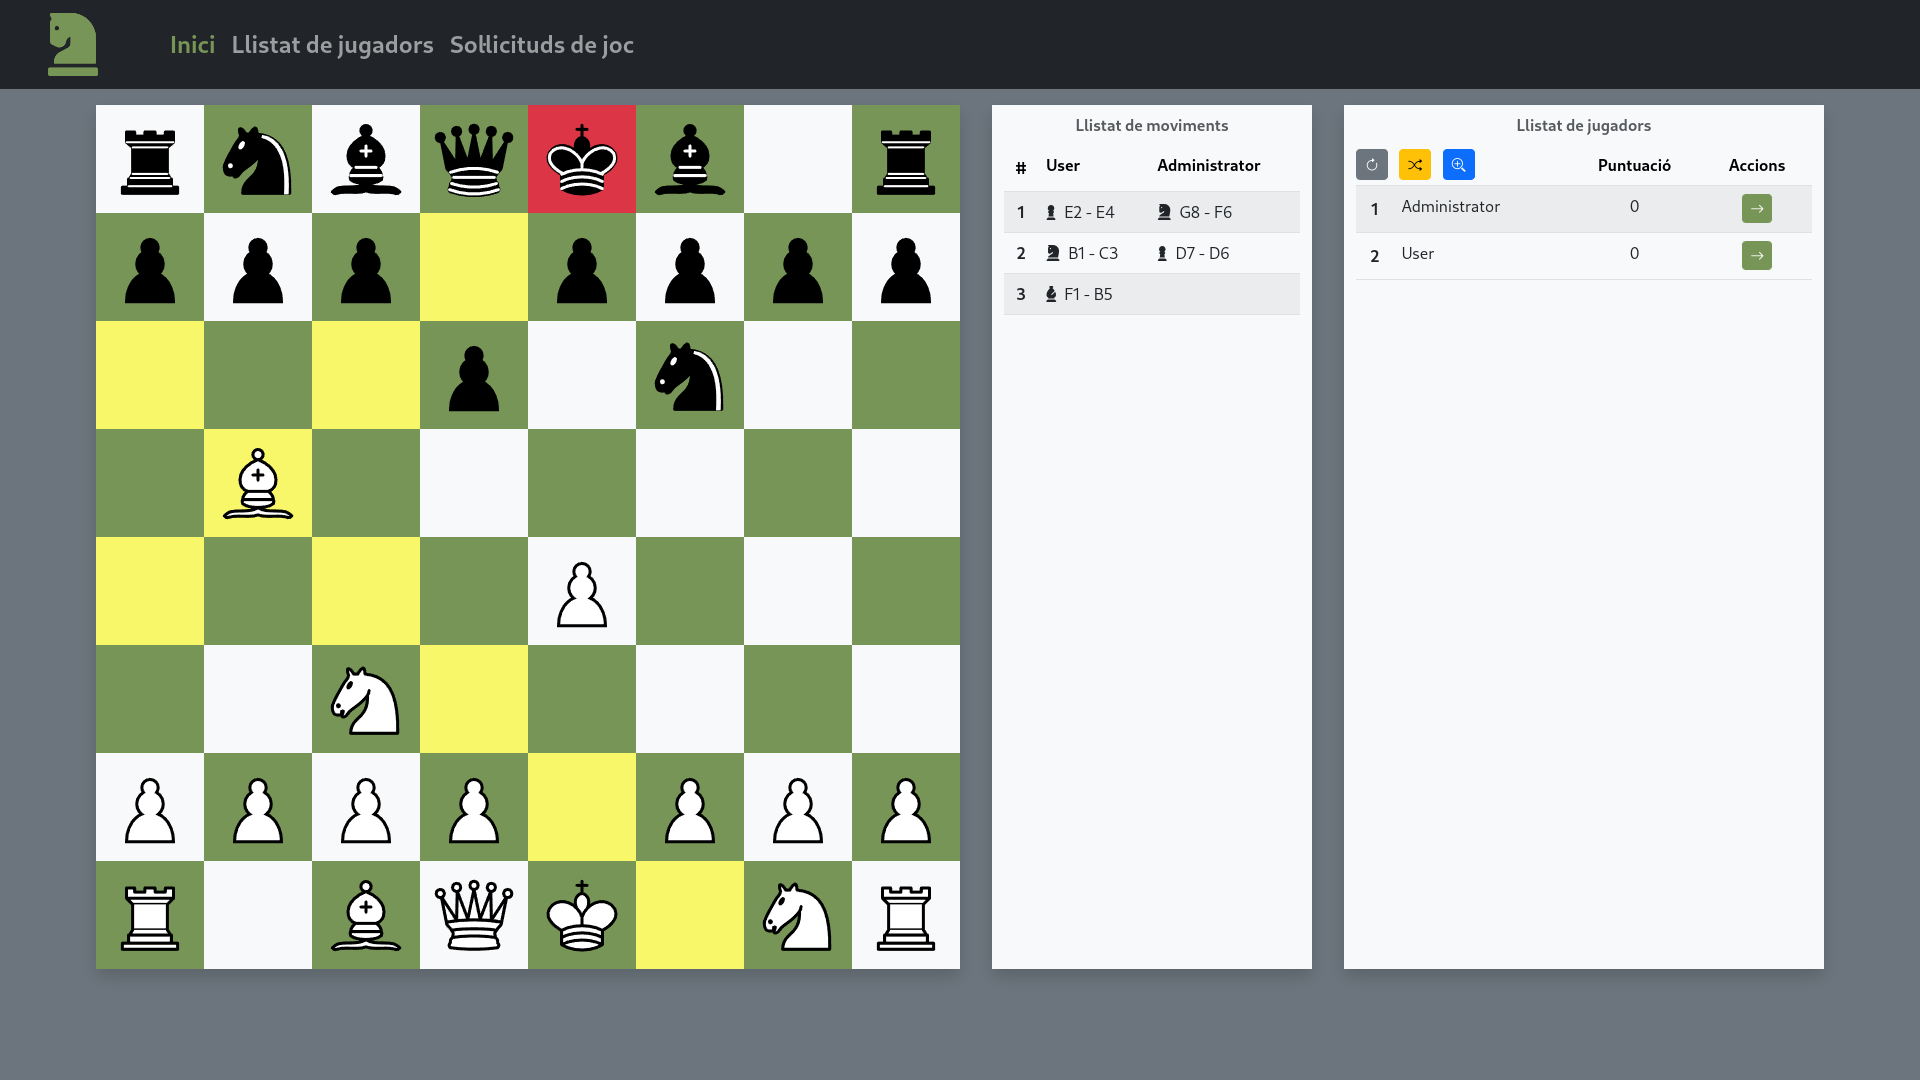
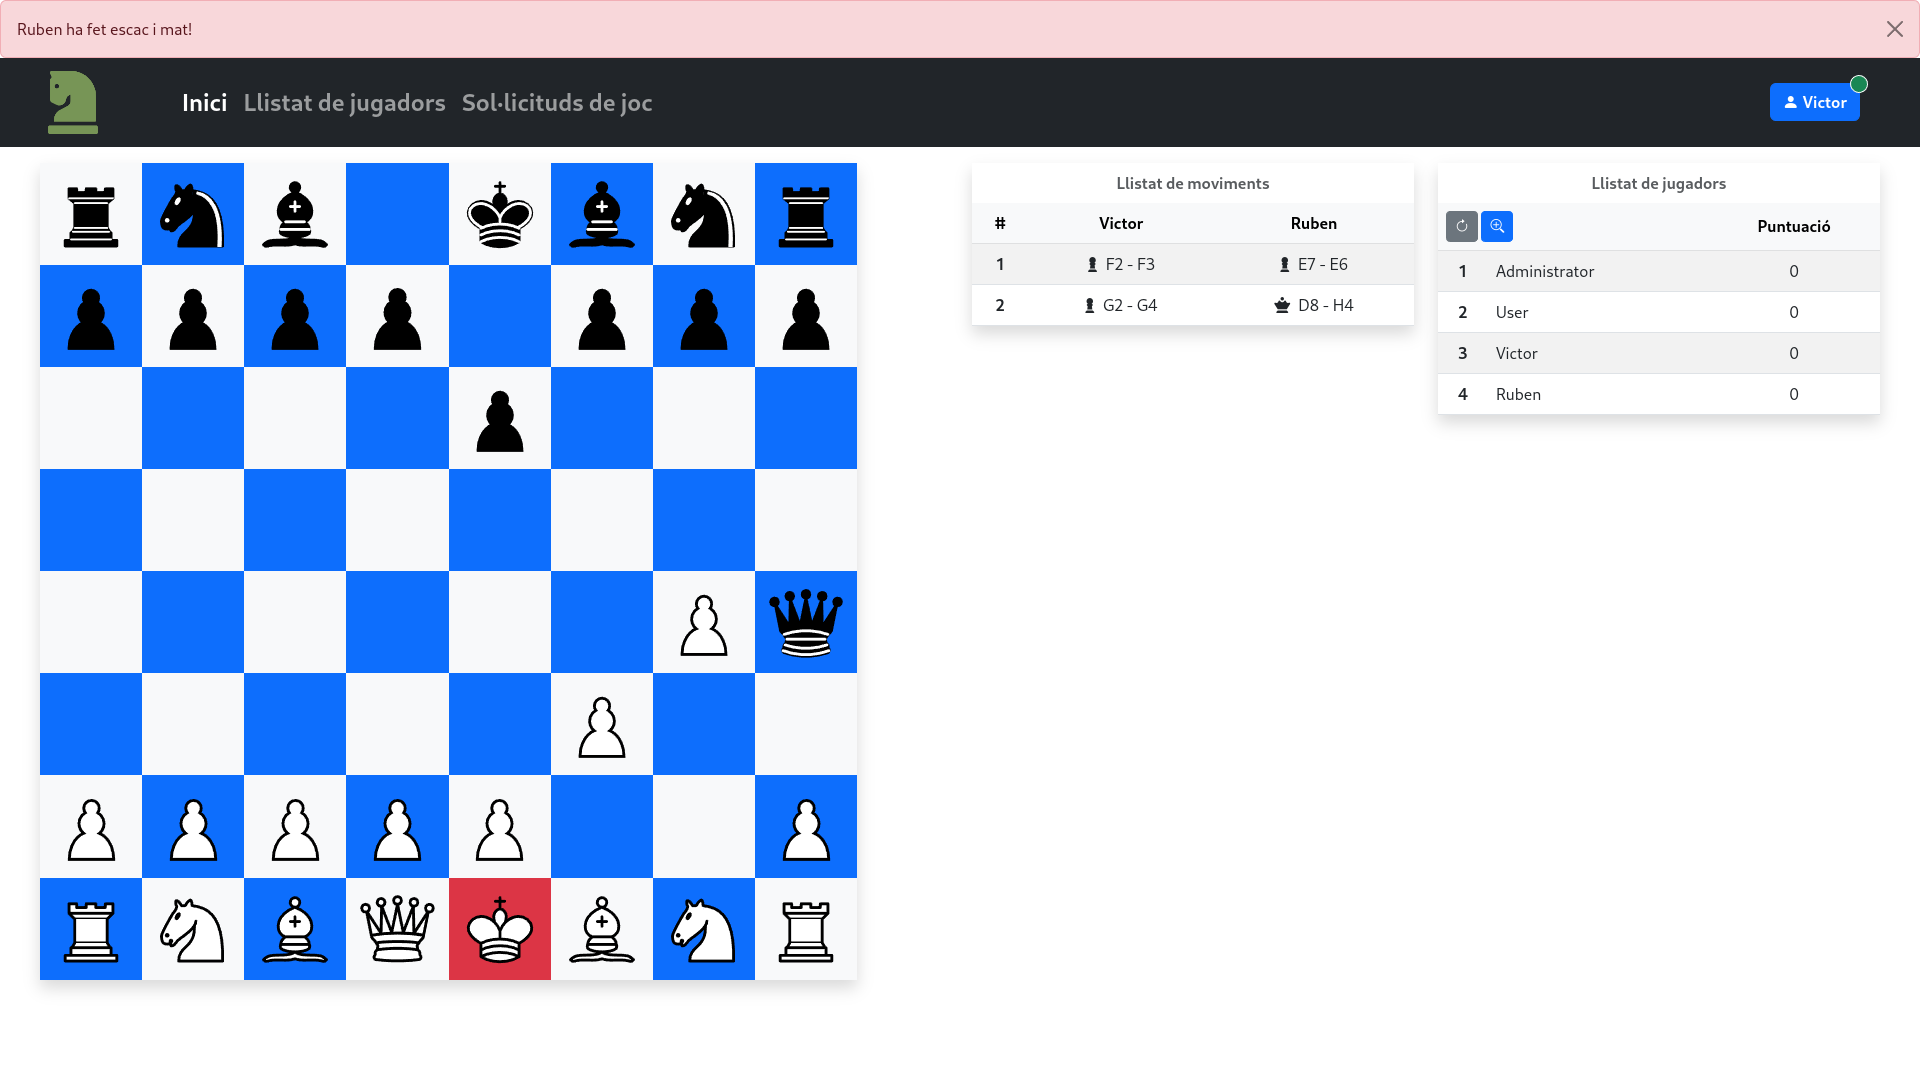
Implementació de l'escac i mat al frontend

diff --git a/src/main/resources/static/frontend/src/board.ts b/src/main/resources/static/frontend/src/board.ts
@@ -1,3 +1,6 @@
+const CHECK = "CHECK";
+const CHECK_MATE = "CHECK_MATE";
+
 const ROWS_NUMBER = 8;
 const COLUMNS_NUMBER = 8;
 
@@ -39,10 +42,26 @@ function listenGameMoves() {
         if (!previousMove || previousMove.id !== newMove.id) {
             previousMove = newMove;
 
-            console.log("Move by: " + newMove["user"]["username"] + " -> " + newMove["value"]);
+            let movingPlayer = newMove["user"]["username"];
+            console.log("Move by: " + movingPlayer + " -> " + newMove["value"]);
+            console.log("Status -> " + newMove.status);
 
-            if (newMove.status === "CHECK") {
+            if (newMove.status === CHECK || newMove.status === CHECK_MATE) {
                 markCheck(newMove.value);
+
+                if (newMove.status === CHECK_MATE) {
+                    let alert = document.getElementById("alert") as HTMLElement;
+                    let alertMessage = document.getElementById("alert-message") as HTMLElement;
+                    alert.classList.remove("d-none");
+                    alert.classList.remove("alert-success");
+                    let loggedUser = sessionStorage.getItem("loggedUserUsername");
+                    if (movingPlayer === loggedUser) {
+                        alert.classList.add("alert-primary");
+                    } else {
+                        alert.classList.add("alert-danger");
+                    }
+                    alertMessage.innerText = movingPlayer + " ha fet escac i mat!";
+                }
             }
 
             updateBoard(newMove.value);
@@ -277,17 +296,7 @@ function executeMove(moveInformation: string) {
             ["username", username]
         ]);
         console.log("Executing move -> " + moveInformation);
-        post("http://localhost:8080/api/v1/move/execute", parameters)
-            .then(response => {
-                let status = JSON.parse(JSON.stringify(response)) as string;
-                console.log("Status -> " + status);
-                if (status === "CHECK") {
-                    markCheck(moveInformation);
-                }
-            })
-            .catch(error => {
-                reportError(error);
-            });
+        post("http://localhost:8080/api/v1/move/execute", parameters);
     }
 }
 

diff --git a/src/main/resources/static/frontend/src/player.ts b/src/main/resources/static/frontend/src/player.ts
@@ -91,6 +91,9 @@ function send(requestedUserUsername: string) {
                                 let alert = document.getElementById("alert") as HTMLElement;
                                 let alertMessage = document.getElementById("alert-message") as HTMLElement;
                                 alert.classList.remove("d-none");
+                                alert.classList.remove("alert-primary");
+                                alert.classList.remove("alert-danger");
+                                alert.classList.add("alert-success");
                                 alertMessage.innerText = requestedUserUsername + " ha acceptat la sol·licitud de joc!";
                             })
                             .catch(error => {

diff --git a/src/main/resources/static/frontend/src/menu.ts b/src/main/resources/static/frontend/src/menu.ts
@@ -3,7 +3,7 @@ if (menu) {
     let username = sessionStorage.getItem("loggedUserUsername");
     menu.innerHTML += `
 <div id="menu">
-    <div id="alert" class="alert alert-success alert-dismissible fade show m-0 d-none" role="alert">
+    <div id="alert" class="alert alert-dismissible fade show m-0 d-none" role="alert">
         <span id="alert-message">A simple success alert—check it out!</span>
         <button type="button" class="btn-close" data-bs-dismiss="alert" aria-label="Close"></button>
     </div>
